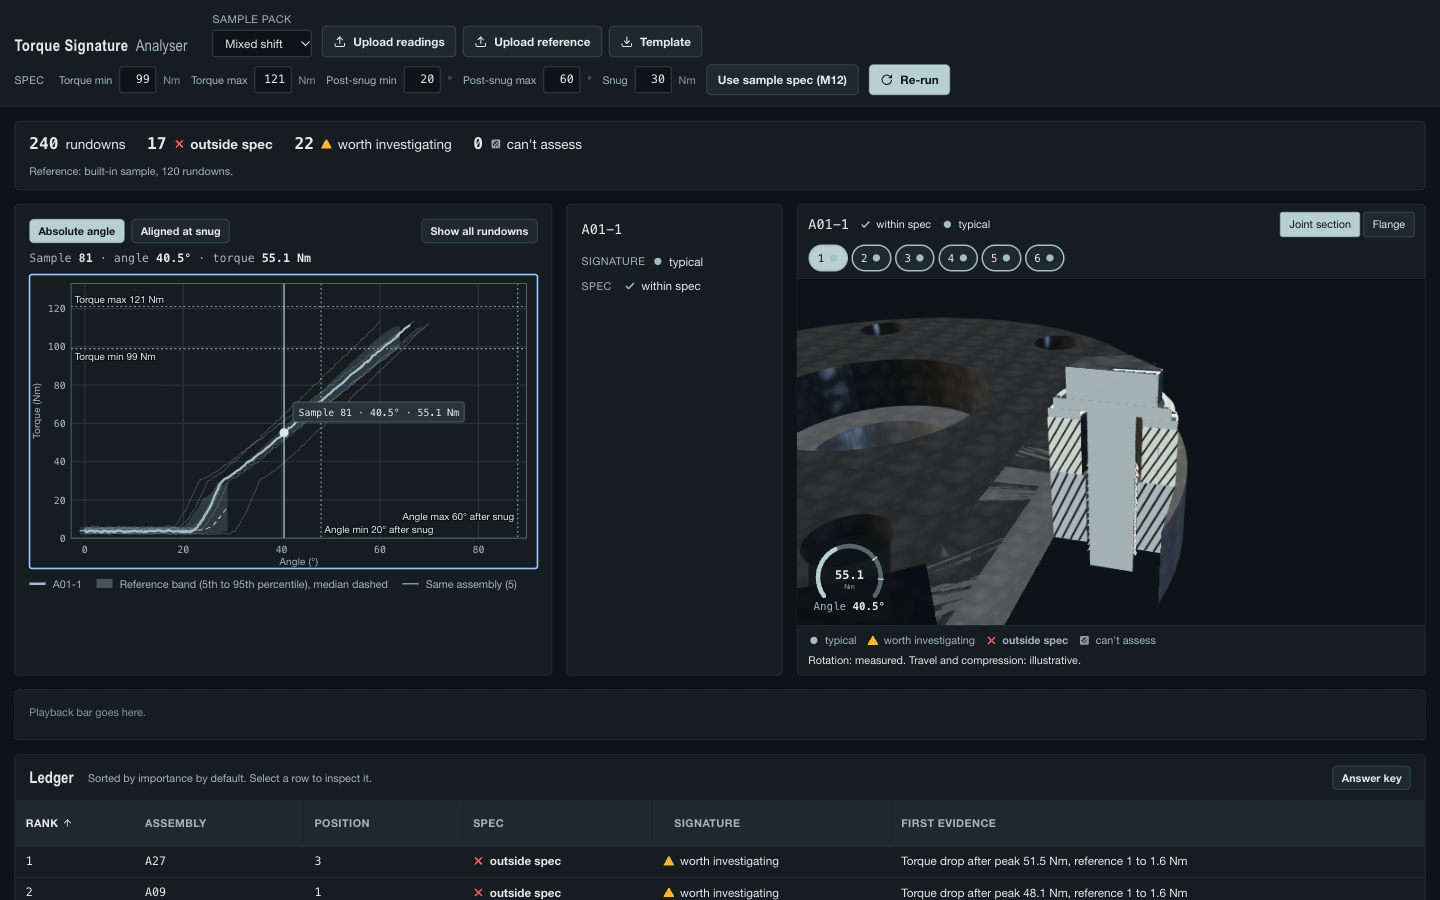
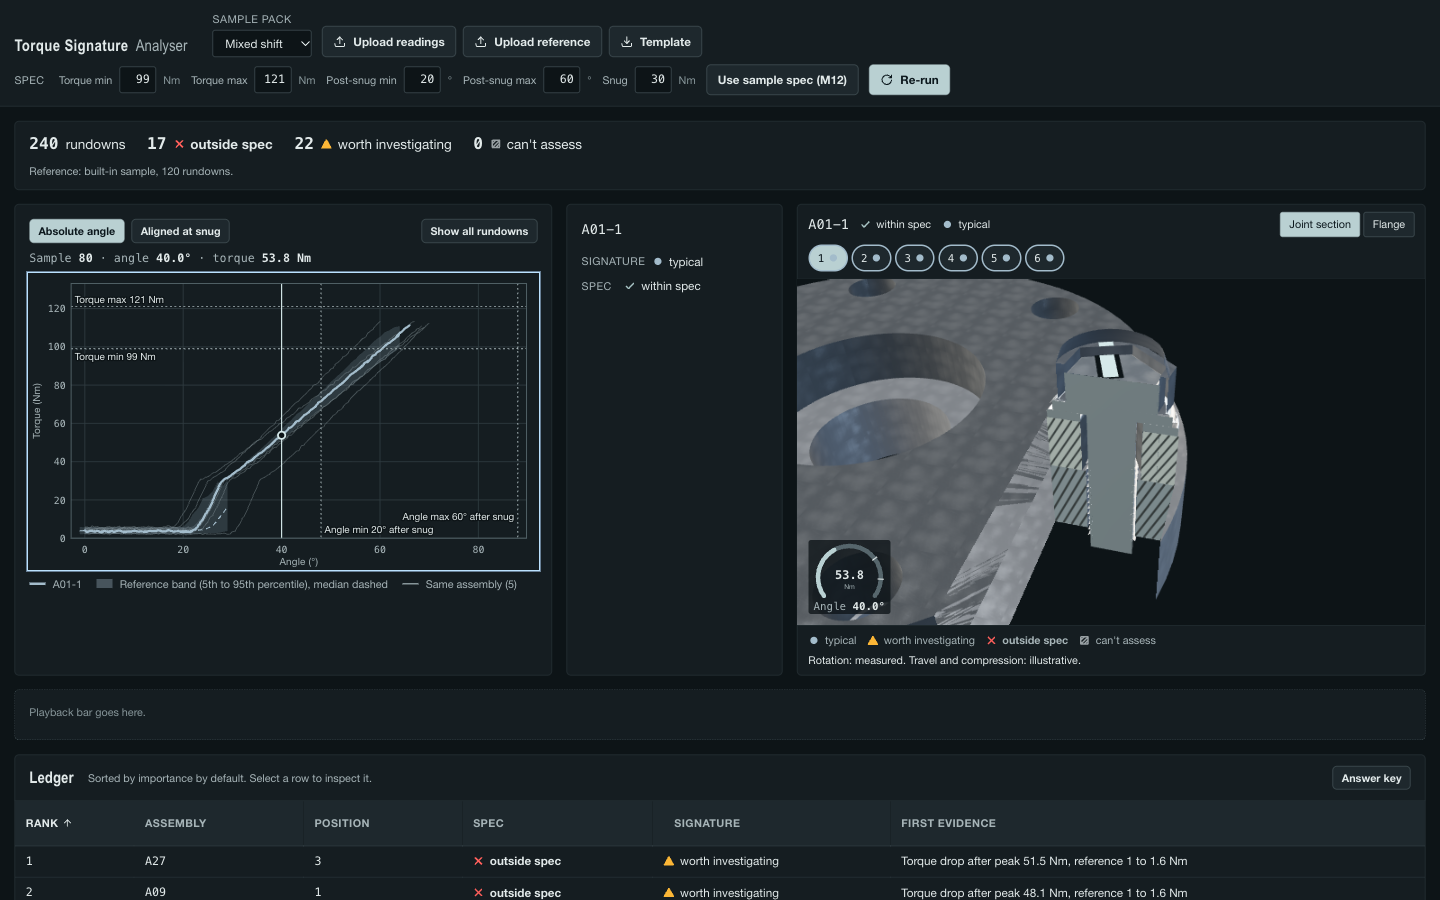
fix(torque): restore socket, reset accent, legible rotation

diff --git a/apps/torque-signature-analyser/web/src/scene/Bolt.jsx b/apps/torque-signature-analyser/web/src/scene/Bolt.jsx
@@ -54,6 +54,8 @@ function threadGeometry() {
     return new THREE.TubeGeometry(new Helix(), Math.round(turns * 14), 0.07, 5, false);
   });
 }
+// Socket: lower part only (hex sleeve plus a short open collar, no lid) so the hex top and its index stripe stay visible.
+const SOCKET = { ring: 0.85, collar: 0.35 };
 function socketGeometry(detail) {
   return once(`socket${detail}`, () => {
     const outer = hexShape(1.27);
@@ -65,16 +67,14 @@ function socketGeometry(detail) {
     }
     hole.closePath();
     outer.holes.push(hole);
-    const ring = new THREE.ExtrudeGeometry(outer, { depth: 1.05, bevelEnabled: false });
+    const y0 = BOLT.flangeT + 0.04;
+    const ring = new THREE.ExtrudeGeometry(outer, { depth: SOCKET.ring, bevelEnabled: false });
     ring.rotateX(-Math.PI / 2);
-    ring.translate(0, BOLT.flangeT + 0.04, 0);
+    ring.translate(0, y0, 0);
     const seg = detail === 'full' ? 32 : 14;
-    const drive = new THREE.CylinderGeometry(0.85, 0.95, 1.2, seg, 1, true);
-    drive.translate(0, BOLT.flangeT + 0.04 + 1.05 + 0.6, 0);
-    const lid = new THREE.CircleGeometry(0.95, seg);
-    lid.rotateX(-Math.PI / 2);
-    lid.translate(0, BOLT.flangeT + 0.04 + 1.05, 0);
-    return { ring, drive, lid };
+    const collar = new THREE.CylinderGeometry(1.0, 1.12, SOCKET.collar, seg, 1, true);
+    collar.translate(0, y0 + SOCKET.ring + SOCKET.collar / 2, 0);
+    return { ring, collar };
   });
 }
 function washerGeometry(seg) {
@@ -87,6 +87,9 @@ function washerGeometry(seg) {
 const ringGeo = () => once('ringGeo', () => new THREE.TorusGeometry(1.14, 0.055, 8, 48));
 const edgeGeo = () => once('edgeGeo', () => new THREE.TorusGeometry(1.3, 0.03, 6, 64));
 const planeGeo = () => once('plane', () => new THREE.PlaneGeometry(1, 1));
+// Top of the bevelled hex, and the direction of the index mark (radians about +y; pi = towards -x, on the cut line).
+const HEX_TOP = BOLT.flangeT + 0.04 + BOLT.hexH - 0.08 + 0.04;
+const MARK_ANGLE = (5 * Math.PI) / 6;
 
 /** Half-width of the regular hex head along the world cut line, for a bolt turned by `rot` radians about y. */
 export function hexHalfWidth(rot) {
@@ -134,14 +137,19 @@ export default function Bolt({ materials, status, rotation = 0, cut = false, det
         <mesh geometry={hex} material={zinc} />
         <mesh geometry={shank} material={zinc} />
         {thread && <mesh geometry={thread} material={zinc} />}
+        {sock && (
+          <>
+            <mesh geometry={sock.ring} material={materials.socket} />
+            <mesh geometry={sock.collar} material={materials.socket} />
+          </>
+        )}
         {cut && (
-          <group rotation={[0, Math.PI / 4, 0]}>
-            {/* Index marks: bright stripe over the hex top and down the vertex edge, on a dark underlay, so turning reads in 3/4 view. */}
-            <mesh geometry={plane} material={materials.markBack} position={[0.5, BOLT.flangeT + BOLT.hexH + 0.011, 0]} rotation={[-Math.PI / 2, 0, 0]} scale={[1.0, 0.3, 1]} />
-            <mesh geometry={plane} material={materials.mark} position={[0.5, BOLT.flangeT + BOLT.hexH + 0.014, 0]} rotation={[-Math.PI / 2, 0, 0]} scale={[0.96, 0.17, 1]} />
-            <mesh geometry={plane} material={materials.markBack} position={[0.795, BOLT.flangeT + BOLT.hexH / 2 + 0.04, -0.459]} rotation={[0, (2 * Math.PI) / 3, 0]} scale={[0.36, BOLT.hexH, 1]} />
-            <mesh geometry={plane} material={materials.mark} position={[0.799, BOLT.flangeT + BOLT.hexH / 2 + 0.04, -0.461]} rotation={[0, (2 * Math.PI) / 3, 0]} scale={[0.2, BOLT.hexH, 1]} />
-            <mesh geometry={plane} material={materials.mark} position={[1.17, BOLT.flangeT + 0.013, 0]} rotation={[-Math.PI / 2, 0, 0]} scale={[0.2, 0.1, 1]} />
+          <group rotation={[0, MARK_ANGLE, 0]}>
+            {/* Index marks on the kept (far) half: a radial stripe on the hex top and a notch on the socket rim, on a
+                dark underlay. At 150 deg they stay in view for the first ~150 deg of turn. */}
+            <mesh geometry={plane} material={materials.markBack} position={[0.45, HEX_TOP + 0.006, 0]} rotation={[-Math.PI / 2, 0, 0]} scale={[0.9, 0.5, 1]} />
+            <mesh geometry={plane} material={materials.mark} position={[0.47, HEX_TOP + 0.01, 0]} rotation={[-Math.PI / 2, 0, 0]} scale={[0.84, 0.3, 1]} />
+            {sock && <mesh geometry={plane} material={materials.mark} position={[1.01, BOLT.flangeT + 0.04 + SOCKET.ring + 0.006, 0]} rotation={[-Math.PI / 2, 0, 0]} scale={[0.17, 0.3, 1]} />}
           </group>
         )}
       </group>

diff --git a/apps/torque-signature-analyser/web/src/scene/JointScene.jsx b/apps/torque-signature-analyser/web/src/scene/JointScene.jsx
@@ -12,6 +12,8 @@ import { boltSlots, jointPose, statusKind } from './kinematics.js';
 // R15: starting head-to-washer gap is 30% of the head height; compression cap is 10% of the top plate.
 const GAP_MAX = 0.3 * 0.95;
 const MAX_COMPRESSION = 0.1 * FLANGE.topT;
+// Lifted exposure so plates, washer and bolt read against the graphite background.
+const EXPOSURE = 1.45;
 
 function useReducedMotion() {
   const [reduced, setReduced] = useState(() => window.matchMedia?.('(prefers-reduced-motion: reduce)').matches ?? false);
@@ -76,8 +78,8 @@ function Scene({ focus, siblings, selected, pose, preset, detail, lit, reducedMo
       <directionalLight position={[-6, 12, 8]} intensity={1.6} color="#fff2df" />
       <directionalLight position={[8, 5, -4]} intensity={0.9} color="#aec7df" />
       <directionalLight position={[3, 6, 12]} intensity={1.2} color="#fff6ea" />
-      <Environment resolution={256} frames={1}>
-        <color attach="background" args={['#0b0d0e']} />
+      <Environment resolution={256} frames={1} environmentIntensity={1.4}>
+        <color attach="background" args={['#2a3036']} />
         <Lightformer form="rect" intensity={14} position={[-5, 4.2, 4.8]} scale={[5.2, 3.9]} color="#fff4e2" />
         <Lightformer form="rect" intensity={5} position={[6, 1.6, 2]} scale={[3, 5.4]} color="#b4d0ee" />
         <Lightformer form="rect" intensity={7} position={[2.5, 2.2, -5.5]} scale={[2, 4.6]} color="#ffe2b8" />
@@ -130,16 +132,19 @@ function JointView({ result, selected, cursor, onSelect }) {
     return () => ro.disconnect();
   }, []);
 
-  // Sea-glass accent only while the cursor is advancing.
+  // Sea-glass accent only while the cursor is advancing. The off-timer is restarted on each advance and is never
+  // dropped by a later cursor change, so the accent always resets; it is only cleared on unmount.
   const prev = useRef(cursor);
+  const litTimer = useRef(null);
+  useEffect(() => () => clearTimeout(litTimer.current), []);
   useEffect(() => {
     const advanced = cursor > prev.current;
     prev.current = cursor;
-    if (reducedMotion) { setLit(false); return undefined; }
-    if (!advanced) return undefined;
+    if (reducedMotion) { clearTimeout(litTimer.current); setLit(false); return; }
+    if (!advanced) return;
     setLit(true);
-    const t = setTimeout(() => setLit(false), 220);
-    return () => clearTimeout(t);
+    clearTimeout(litTimer.current);
+    litTimer.current = setTimeout(() => setLit(false), 220);
   }, [cursor, reducedMotion]);
 
   const rundowns = result?.rundowns ?? [];
@@ -177,6 +182,7 @@ function JointView({ result, selected, cursor, onSelect }) {
         frameloop="demand"
         camera={{ fov: 32, near: 0.5, far: 120, position: [0, 20, 18] }}
         gl={{ antialias: true }}
+        onCreated={({ gl }) => { gl.toneMappingExposure = EXPOSURE; }}
         aria-label="3D bolted joint, half section"
       >
         <Scene

diff --git a/apps/torque-signature-analyser/web/src/scene/materials.js b/apps/torque-signature-analyser/web/src/scene/materials.js
@@ -88,8 +88,8 @@ export function createMaterials(cut) {
   const rough = roughnessTexture();
   const steelF0 = F0(0.56, 0.57, 0.58);
   hatchCache ??= {
-    top: hatchTexture(tokenColor('--color-alu', '#bbb').multiplyScalar(0.8), tokenColor('--color-surface', '#222')),
-    base: hatchTexture(tokenColor('--color-steel', '#99a').multiplyScalar(0.6), tokenColor('--color-surface', '#222')),
+    top: hatchTexture(tokenColor('--color-alu', '#bbb').multiplyScalar(0.22), tokenColor('--color-surface', '#222')),
+    base: hatchTexture(tokenColor('--color-steel', '#99a').multiplyScalar(0.16), tokenColor('--color-surface', '#222')),
   };
   const hatch = hatchCache.top;
   const hatchDark = hatchCache.base;
@@ -108,7 +108,7 @@ export function createMaterials(cut) {
   const hub = new THREE.MeshStandardMaterial({ color: F0(0.34, 0.35, 0.38), metalness: 0.9, roughness: 0.6, roughnessMap: rough });
   const capTop = new THREE.MeshStandardMaterial({ map: hatch, metalness: 0, roughness: 0.9 });
   const capBase = new THREE.MeshStandardMaterial({ map: hatchDark, metalness: 0, roughness: 0.9 });
-  const capBolt = new THREE.MeshStandardMaterial({ color: tokenColor('--color-steel', '#aab').multiplyScalar(0.55), metalness: 0, roughness: 0.8 });
+  const capBolt = new THREE.MeshStandardMaterial({ color: tokenColor('--color-steel', '#aab').multiplyScalar(0.13), metalness: 0, roughness: 0.8 });
   const edge = new THREE.MeshBasicMaterial({ color: tokenColor('--color-motion', '#3df5d2'), toneMapped: false, transparent: true, opacity: 0.9, clippingPlanes: single });
 
   const gapMat = new THREE.MeshBasicMaterial({ color: tokenColor('--color-motion', '#3df5d2'), transparent: true, opacity: 0.3, depthWrite: false, side: THREE.DoubleSide, toneMapped: false, clippingPlanes: single });

diff --git a/apps/torque-signature-analyser/web/src/scene/CameraRig.jsx b/apps/torque-signature-analyser/web/src/scene/CameraRig.jsx
@@ -32,12 +32,14 @@ export default function CameraRig({ preset, focus, reducedMotion }) {
     invalidate();
   }, [preset, focus, aspect, reducedMotion, camera, invalidate]);
 
-  if (import.meta.env?.DEV && typeof window !== 'undefined') {
+  useEffect(() => {
+    if (!import.meta.env?.DEV) return undefined;
     window.__tsaCam = () => ({
       pos: camera.position.toArray(), target: controls.current?.target.toArray(), aspect, size: [size.width, size.height],
       anim: Boolean(anim.current), expected: Object.fromEntries(Object.entries(presetPose(preset, focus, aspect)).map(([k, v]) => [k, v.toArray()])),
     });
-  }
+    return () => { delete window.__tsaCam; };
+  }, [camera, aspect, size.width, size.height, preset, focus]);
 
   useFrame((_, dt) => {
     const a = anim.current;

diff --git a/apps/torque-signature-analyser/web/src/scene/camera.js b/apps/torque-signature-analyser/web/src/scene/camera.js
@@ -15,7 +15,7 @@ export function presetPose(preset, focus, aspect = 1.5) {
     const half = Math.tan((FOV * Math.PI) / 360);
     const dist = Math.max(h / (2 * half), (STACK.width * 1.2) / (2 * half * aspect)) * 1.06;
     // Cut side towards the viewer, a little elevation and a slight side turn for a 3/4 read.
-    const dir = T.clone().addScaledVector(R, 0.25).setY(0.55).normalize();
+    const dir = T.clone().addScaledVector(R, 0.25).setY(0.85).normalize();
     const target = P.clone().setY((STACK.top + STACK.bottom) / 2);
     return { target, position: target.clone().addScaledVector(dir, dist) };
   }
